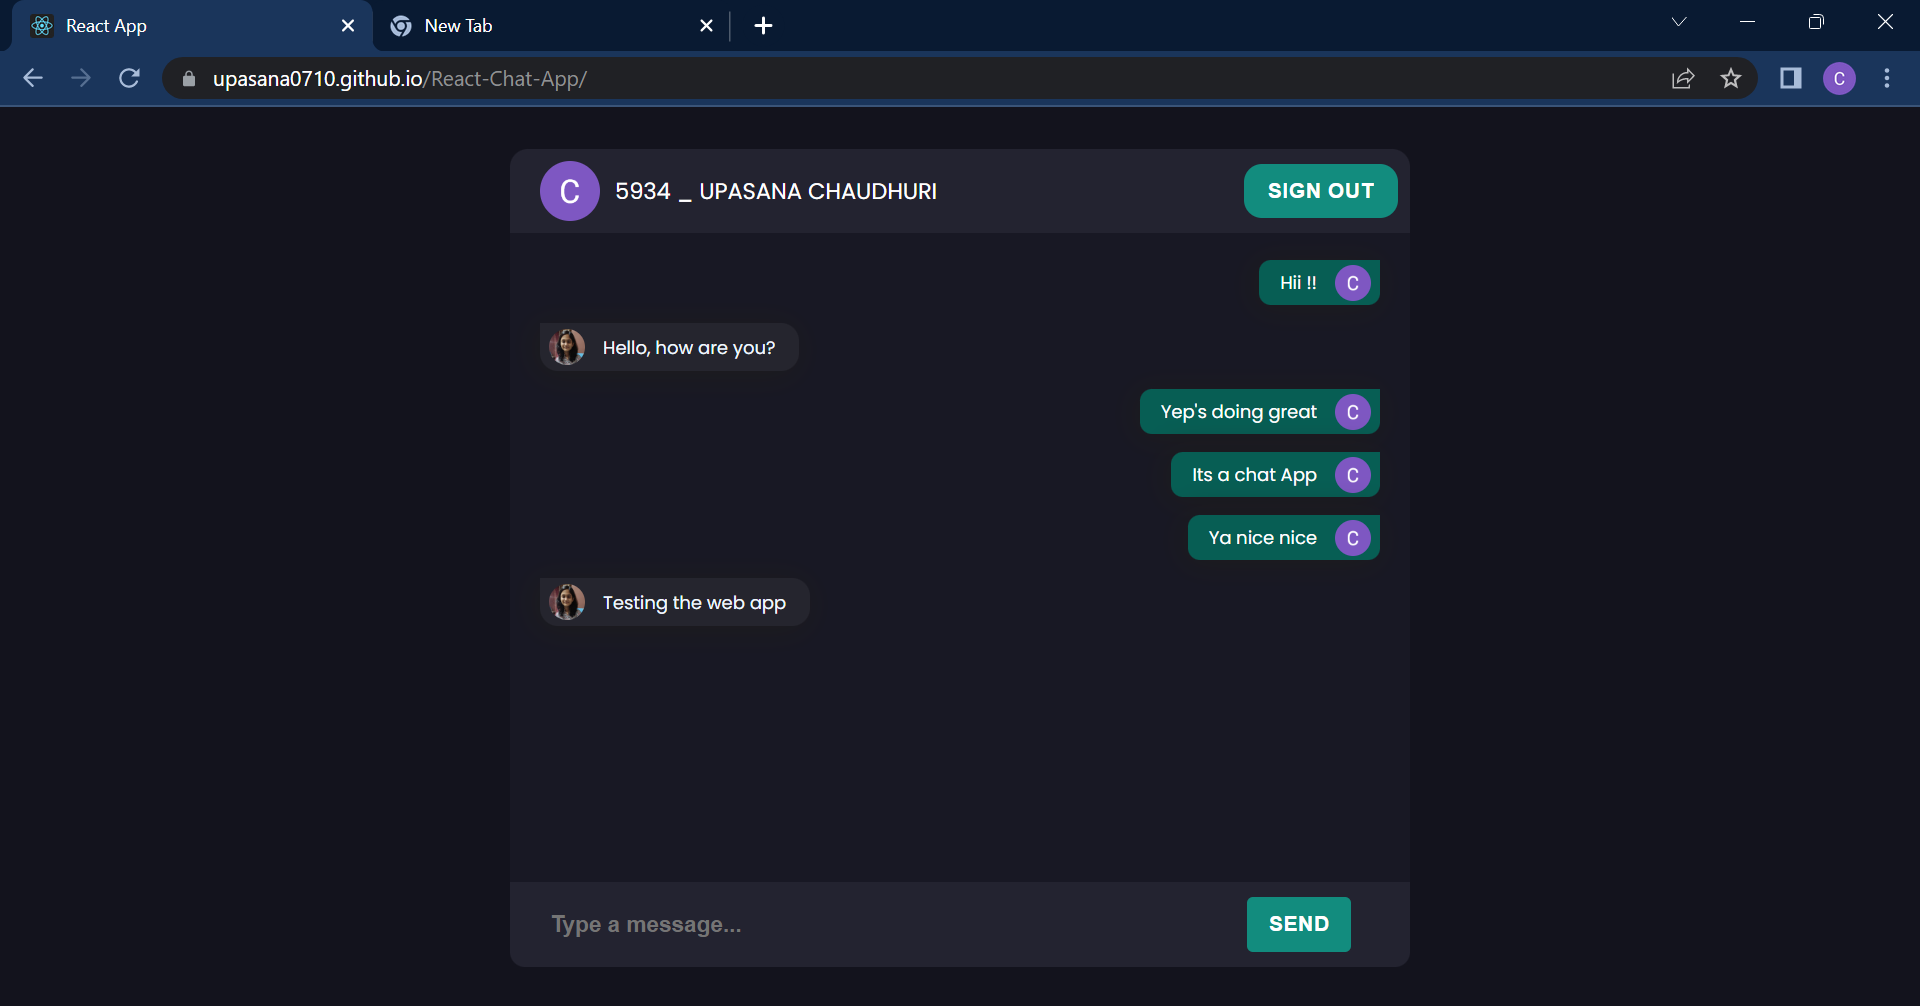
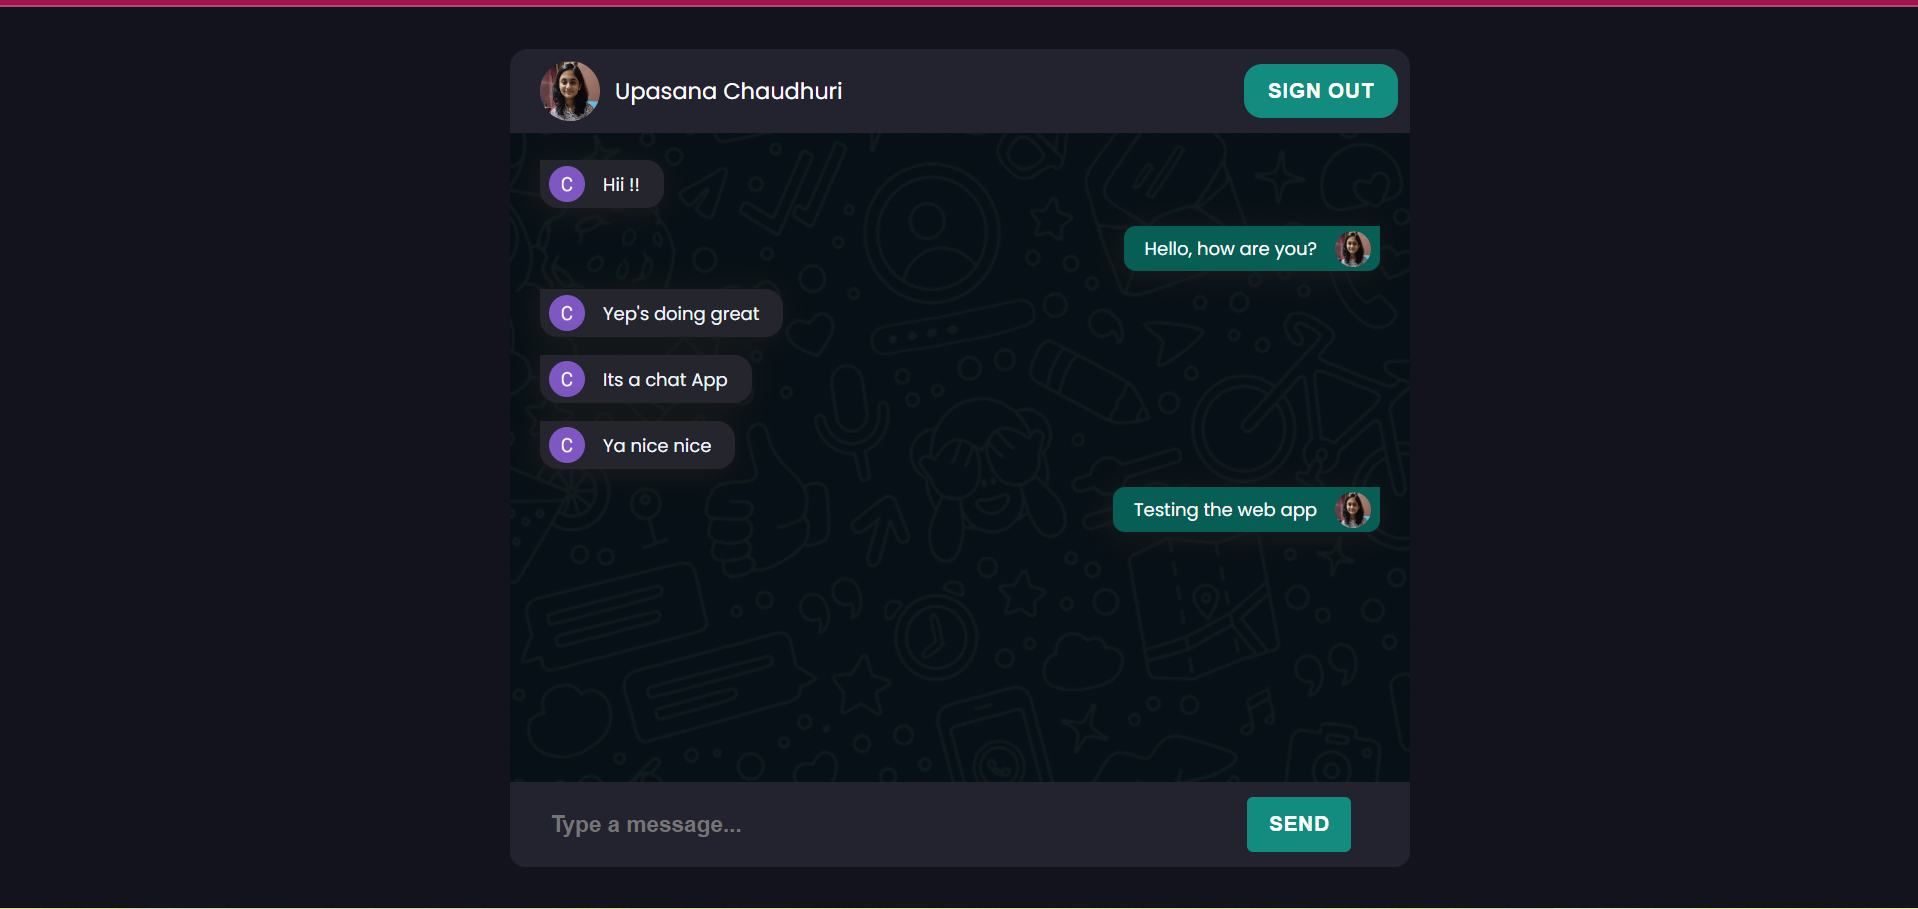
added readme

diff --git a/src/App.css b/src/App.css
@@ -113,7 +113,7 @@ p {
   height: 68vh;
   width: 600px;
   background-color: #181824;
-  background: '../public/background.png';
+  background: linear-gradient(rgba(0, 0, 0, 0.4), rgba(0, 0, 0, 0.4)), url(./Img/background.png);
   display: flex;
   padding-bottom: 12px;
   padding-top: 12px;
